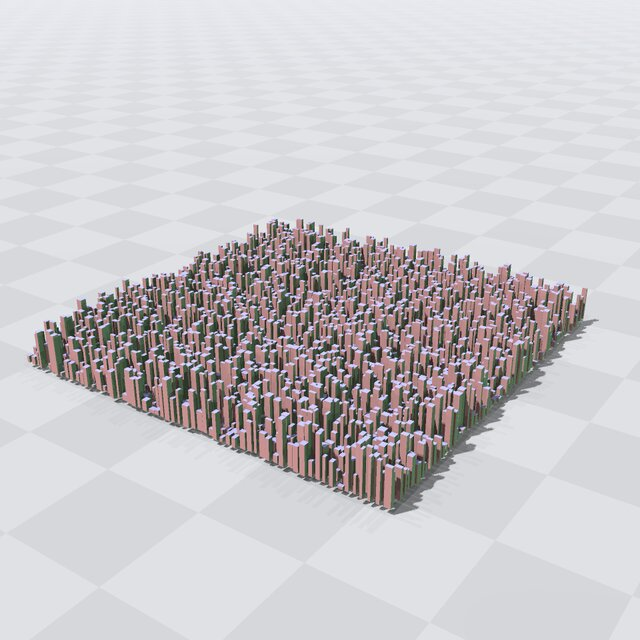
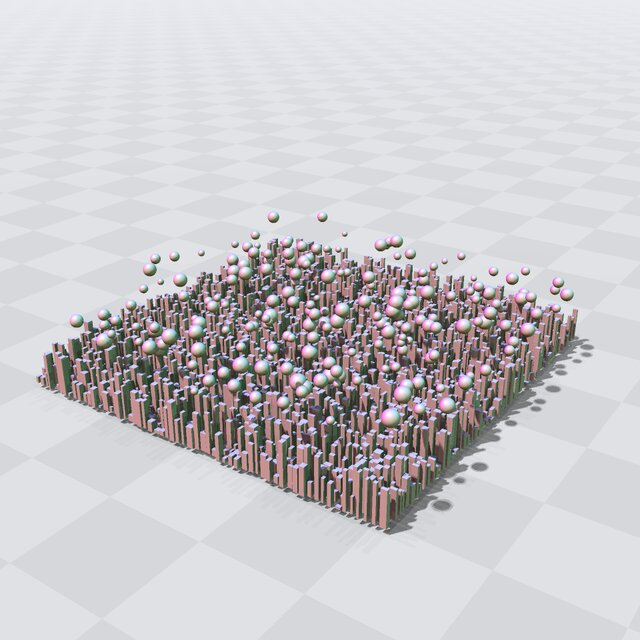
ManyObjects: larger balloons; the figure re-rendered with the city and its balloons
Claude-Session: https://claude.ai/code/session_01FnaeZk1ThKVcT9ypbex2Vt

Changed region(s): [[0.0312, 0.3125, 0.9375, 0.8438]]

diff --git a/Examples/ManyObjects/main.cpp b/Examples/ManyObjects/main.cpp
@@ -259,9 +259,9 @@ main(int argc, char* argv[])
   const T cityWidth = T(lotsPerAxis) * (maxWidth + gap);
 
   for (int i = 0; i < numBalloons; i++) {
-    const Vec3 center(unit(rng) * cityWidth, unit(rng) * cityWidth, maxHeight + T(2) + T(10) * unit(rng));
+    const Vec3 center(unit(rng) * cityWidth, unit(rng) * cityWidth, maxHeight + T(5) + T(15) * unit(rng));
 
-    balloons.emplace_back(center, T(0.5) + unit(rng));
+    balloons.emplace_back(center, T(1.5) + T(2) * unit(rng));
   }
 
   const auto skyline = EBGeometry::BVHUnion(pool, buildings, balloons);
